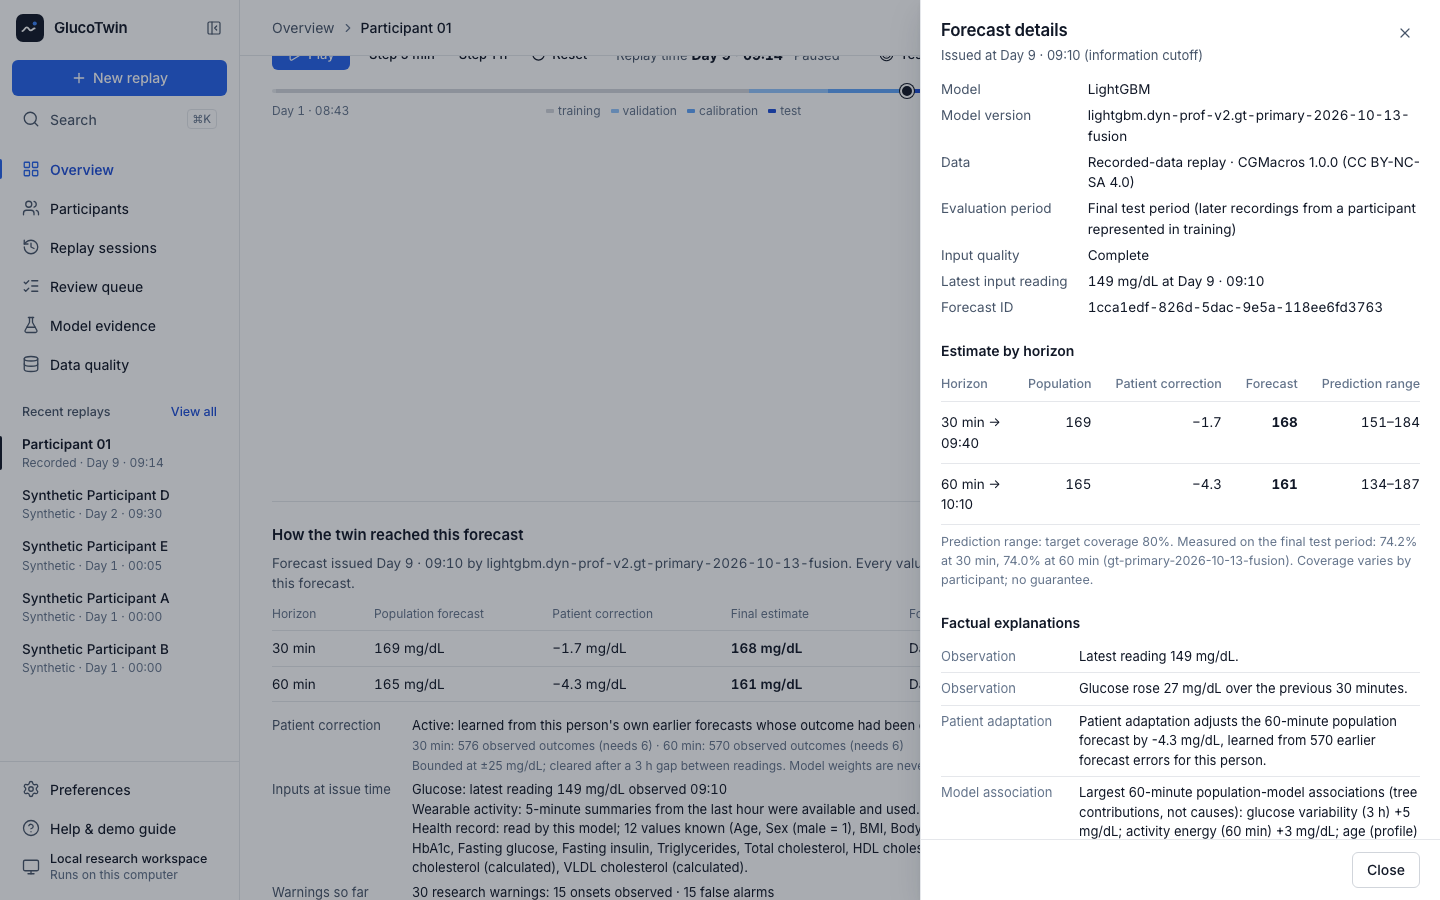
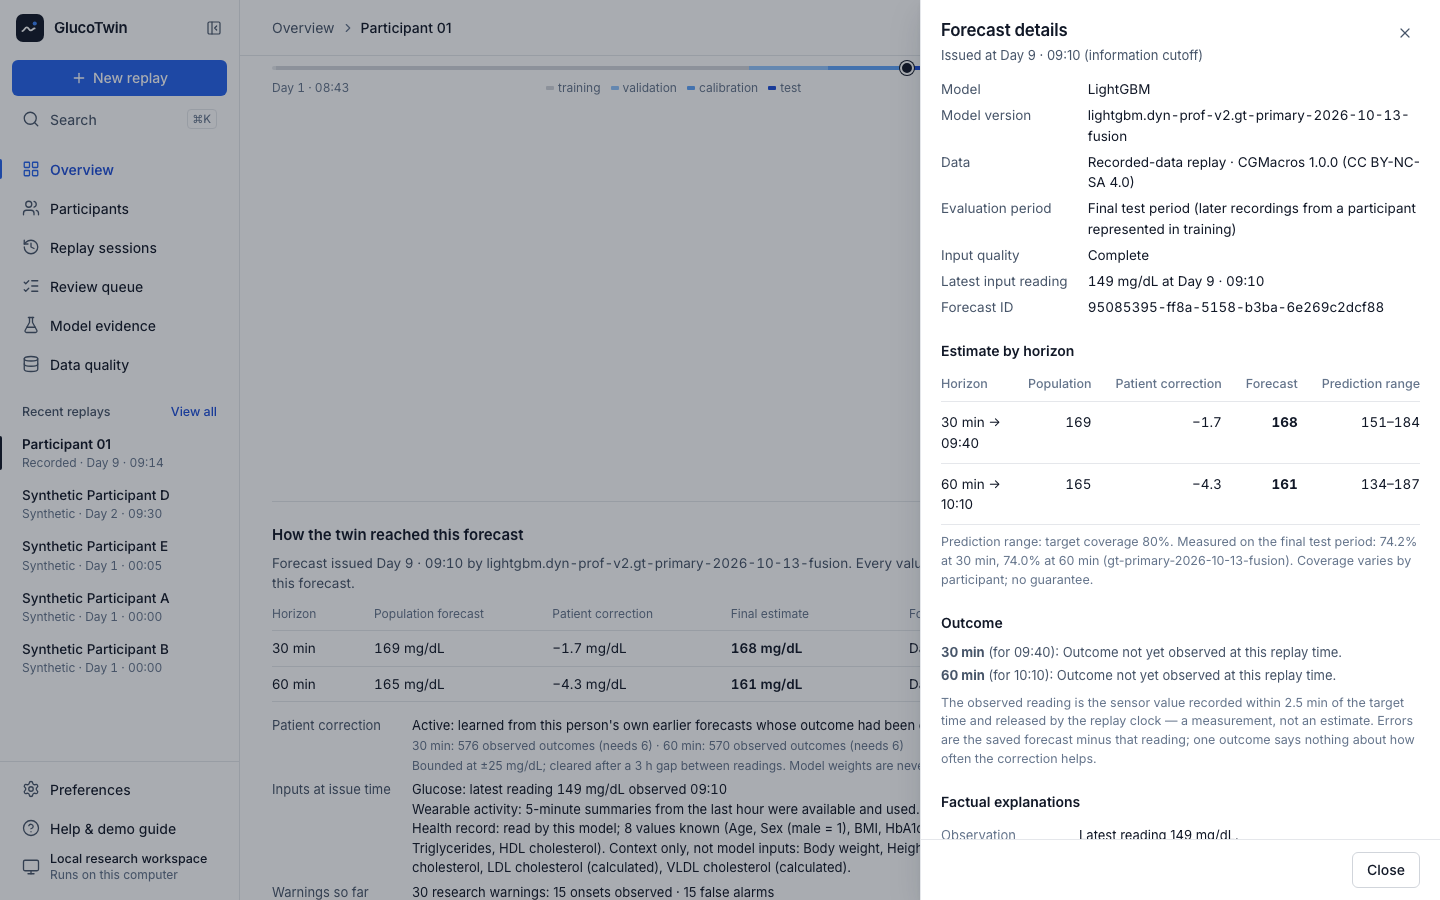
feat(workspace): forecast details show each horizon's outcome once the replay clock reaches it
The observed reading matched within 2.5 min of the target (released readings only), the saved final and population
forecasts' errors, and whether the patient correction moved this forecast closer or further. Pending before the
target, unknown across a gap, follows the clock after a rewind. Opening the latest forecast's details pins it so stepping
on reveals its outcome.

diff --git a/apps/web/src/components/twin/ForecastDetail.tsx b/apps/web/src/components/twin/ForecastDetail.tsx
@@ -1,6 +1,7 @@
-import type { EvaluationReport, Forecast, PatientSummary } from "@/api/types";
+import type { EvaluationReport, Forecast, ObservationEvent, PatientSummary } from "@/api/types";
 import { measuredCoverage } from "@/lib/forecast";
 import { fmtGlucose, fmtPct, modeLabel } from "@/lib/format";
+import { horizonOutcome, type HorizonOutcome } from "@/lib/outcome";
 import { replayTime } from "@/lib/time";
 import { Button, Dialog } from "../ui";
 
@@ -19,8 +20,10 @@ const KIND: Record<string, string> = {
 };
 
 /** Side drawer with the provenance of one forecast: identity, cutoff, components, range semantics, explanations. */
-export function ForecastDetail({ f, patient, report, open, onClose, publicDemo = false }: {
+export function ForecastDetail({ f, patient, report, open, onClose, publicDemo = false, events = [], clock }: {
   f: Forecast | null; patient?: PatientSummary; report?: EvaluationReport; open: boolean; onClose: () => void; publicDemo?: boolean;
+  /** released observations of the session and the replay clock, for the outcome of each horizon */
+  events?: ObservationEvent[]; clock?: number;
 }) {
   const cov = f ? measuredCoverage(report, f.model_version) : null;
   return (
@@ -73,6 +76,24 @@ export function ForecastDetail({ f, patient, report, open, onClose, publicDemo =
             </p>
           </section>
 
+          {clock != null && (
+            <section aria-labelledby="fd-outcome">
+              <h3 className="drawer-body__h" id="fd-outcome">Outcome</h3>
+              <ul className="facts">
+                {f.estimates.map((e) => (
+                  <li key={e.horizon_minutes}>
+                    <OutcomeLine horizon={e.horizon_minutes} target={e.target_at} o={horizonOutcome(e, events, clock)} />
+                  </li>
+                ))}
+              </ul>
+              <p className="drawer-body__note">
+                The observed reading is the sensor value recorded within 2.5 min of the target time and released by the replay
+                clock — a measurement, not an estimate. Errors are the saved forecast minus that reading; one outcome says
+                nothing about how often the correction helps.
+              </p>
+            </section>
+          )}
+
           <section aria-labelledby="fd-why">
             <h3 className="drawer-body__h" id="fd-why">Factual explanations</h3>
             <ul className="explain-list">
@@ -89,5 +110,26 @@ export function ForecastDetail({ f, patient, report, open, onClose, publicDemo =
         </div>
       )}
     </Dialog>
+  );
+}
+
+const signed = (v: number) => `${v >= 0 ? "+" : "−"}${Math.abs(v).toFixed(1)}`;
+
+function OutcomeLine({ horizon, target, o }: { horizon: number; target: string; o: HorizonOutcome }) {
+  const head = <><strong>{horizon} min</strong> (for {replayTime(target, { day: false })}): </>;
+  if (o.state === "pending") return <>{head}<span className="muted">Outcome not yet observed at this replay time.</span></>;
+  if (o.state === "unknown") return <>{head}<span className="muted">No reading near the target time — outcome unknown.</span></>;
+  return (
+    <>
+      {head}observed reading <strong className="num">{fmtGlucose(o.observed)} mg/dL</strong> at {replayTime(o.observedAt, { day: false })}.
+      {" "}Forecast error {o.finalError == null ? "—" : `${signed(o.finalError)} mg/dL`}
+      {o.populationError != null && <>; population forecast error {signed(o.populationError)} mg/dL</>}.
+      {o.correction && (
+        <span className="table__sub">
+          {o.correction.effect === "none" ? "The patient correction made no difference to this forecast's error (under 0.5 mg/dL)."
+            : `The patient correction moved this forecast ${o.correction.by.toFixed(1)} mg/dL ${o.correction.effect === "closer" ? "closer to" : "further from"} the observed value.`}
+        </span>
+      )}
+    </>
   );
 }

diff --git a/apps/web/src/lib/outcome.test.ts b/apps/web/src/lib/outcome.test.ts
@@ -1,0 +1,46 @@
+import { describe, expect, it } from "vitest";
+import type { HorizonEstimate } from "@/api/types";
+import { glucose } from "@/test/fixtures";
+import { horizonOutcome } from "./outcome";
+import { ms } from "./time";
+
+const est = (over: Partial<HorizonEstimate> = {}): HorizonEstimate => ({
+  horizon_minutes: 30, target_at: "2000-01-03T10:30:00Z", predicted_mg_dl: 170,
+  components: { population_mg_dl: 180, patient_correction_mg_dl: -10 }, ...over,
+}) as HorizonEstimate;
+const reading = glucose("g1", "2000-01-03T10:31:00Z", 168);
+
+describe("horizonOutcome", () => {
+  it("is pending before the target time, even when a later reading exists in the list", () => {
+    expect(horizonOutcome(est(), [reading], ms("2000-01-03T10:20:00Z"))).toEqual({ state: "pending" });
+  });
+
+  it("matches the observed reading within 2.5 minutes and reports both errors", () => {
+    const o = horizonOutcome(est(), [reading], ms("2000-01-03T10:40:00Z"));
+    expect(o).toMatchObject({ state: "observed", observed: 168, observedAt: "2000-01-03T10:31:00Z", finalError: 2, populationError: 12 });
+  });
+
+  it("says the correction moved the forecast closer, further or made no difference", () => {
+    const at = ms("2000-01-03T10:40:00Z");
+    expect(horizonOutcome(est(), [reading], at)).toMatchObject({ correction: { effect: "closer", by: 10 } });
+    const hurt = est({ predicted_mg_dl: 150, components: { population_mg_dl: 165, patient_correction_mg_dl: -15 } });
+    expect(horizonOutcome(hurt, [reading], at)).toMatchObject({ correction: { effect: "further", by: 15 } });
+    const same = est({ predicted_mg_dl: 168.2, components: { population_mg_dl: 167.9, patient_correction_mg_dl: 0.3 } });
+    expect(horizonOutcome(same, [reading], at)).toMatchObject({ correction: { effect: "none" } });
+    const noCorr = est({ components: { population_mg_dl: 170, patient_correction_mg_dl: null } as HorizonEstimate["components"] });
+    expect(horizonOutcome(noCorr, [reading], at)).toMatchObject({ correction: null });
+  });
+
+  it("is unknown when no reading lies near the target (a gap), but pending while one could still arrive", () => {
+    const far = glucose("g2", "2000-01-03T10:45:00Z", 150);
+    expect(horizonOutcome(est(), [far], ms("2000-01-03T10:31:00Z"))).toEqual({ state: "pending" });
+    expect(horizonOutcome(est(), [far], ms("2000-01-03T11:00:00Z"))).toEqual({ state: "unknown" });
+  });
+
+  it("follows the replay clock after a rewind: a reading not yet released is not used", () => {
+    const late = glucose("g3", "2000-01-03T10:31:00Z", 168, "2000-01-03T10:50:00Z"); // available 19 min later
+    expect(horizonOutcome(est(), [late], ms("2000-01-03T10:40:00Z"))).toEqual({ state: "unknown" });
+    expect(horizonOutcome(est(), [late], ms("2000-01-03T10:55:00Z"))).toMatchObject({ state: "observed" });
+    expect(horizonOutcome(est(), [late], ms("2000-01-03T10:25:00Z"))).toEqual({ state: "pending" });
+  });
+});

diff --git a/apps/web/e2e/journey.spec.ts b/apps/web/e2e/journey.spec.ts
@@ -343,6 +343,38 @@ test.describe("recording resolution (1920×1080) — demo sequence on recorded d
     await expect(page.getByText("No onset (false alarm)").first()).toBeVisible();
   });
 
+  test("Participant 01: a forecast's outcome appears only when the replay clock reaches its target time", async ({ page }) => {
+    const p = await byAlias(page, "Participant 01");
+    test.skip(!p, "CGMacros not imported on this machine");
+    await page.goto("/app");
+    const sid = await startReplay(page, "dataset_replay", p.patient_id, true);
+    await seek(page, sid, "2000-01-11T20:35:00Z");
+    await page.getByRole("button", { name: "View forecast details" }).click();
+    const drawer = page.getByRole("dialog", { name: "Forecast details" });
+    await expect(drawer).toContainText("Issued at Day 9 · 20:35");
+    const outcome = drawer.getByRole("region", { name: "Outcome" });
+    await expect(outcome).toContainText("Outcome not yet observed at this replay time.");
+    await expect(outcome).not.toContainText(/observed reading \d/);
+    await page.keyboard.press("Escape");
+    // step past the 30-minute target (21:05); the opened forecast stays pinned
+    for (let i = 0; i < 7; i++) await page.getByRole("button", { name: "Step 5 min forward" }).click();
+    await expect(page.getByText("Day 9 · 21:10").first()).toBeVisible();
+    await page.getByRole("button", { name: "View forecast details" }).click();
+    await expect(drawer).toContainText("Issued at Day 9 · 20:35");
+    await expect(outcome).toContainText(/30 min \(for 21:05\): observed reading \d+ mg\/dL at 21:0\d/);
+    await expect(outcome).toContainText(/60 min \(for 21:35\): Outcome not yet observed at this replay time\./);
+    await page.keyboard.press("Escape");
+    await page.getByRole("button", { name: "Step 1 h forward" }).click();
+    await expect(page.getByText("Day 9 · 22:10").first()).toBeVisible();
+    await page.getByRole("button", { name: "View forecast details" }).click();
+    await expect(outcome).toContainText(/60 min \(for 21:35\): observed reading \d+ mg\/dL/);
+    await expect(outcome).toContainText(/The patient correction (moved this forecast [\d.]+ mg\/dL (closer to|further from)|made no difference)/);
+    await outcome.scrollIntoViewIfNeeded();
+    await drawer.screenshot({ path: `${SHOTS}/25-forecast-outcome.png` });
+    console.log("OUTCOME_TEXT::" + (await outcome.innerText()).replace(/\n/g, " | "));
+    await page.keyboard.press("Escape");
+  });
+
   test("Participant 12: a real sensor gap makes the forecast stale, then the twin abstains", async ({ page }) => {
     const p = await byAlias(page, "Participant 12");
     test.skip(!p, "CGMacros not imported on this machine");

diff --git a/apps/web/src/lib/outcome.ts b/apps/web/src/lib/outcome.ts
@@ -1,0 +1,49 @@
+/**
+ * What happened after a saved forecast, judged at the replay clock: the observed reading matched to each horizon's target
+ * time and how far the saved final and population forecasts were from it. Only saved forecast fields and readings the
+ * clock has released are used; the forecast is never recomputed, and nothing is said about why the error arose.
+ */
+import type { HorizonEstimate, ObservationEvent } from "@/api/types";
+import { outcomeFor } from "./chart";
+import { ms } from "./time";
+
+/** Matching window around t + h, in minutes: `match_tolerance_minutes` of configs/experiment.yaml (5-minute data). */
+export const OUTCOME_TOLERANCE_MIN = 2.5;
+/** Below this difference in absolute error the patient correction is said to have made no difference. */
+export const NO_DIFFERENCE_MG_DL = 0.5;
+
+export type HorizonOutcome =
+  | { state: "pending" }
+  | { state: "unknown" }
+  | {
+    state: "observed";
+    observed: number;
+    observedAt: string;
+    /** saved final forecast minus the observed reading */
+    finalError: number | null;
+    /** saved population forecast minus the observed reading */
+    populationError: number | null;
+    /** how the saved patient correction changed the absolute error; null without a correction or population value */
+    correction: { effect: "closer" | "further" | "none"; by: number } | null;
+  };
+
+export function horizonOutcome(e: HorizonEstimate, events: ObservationEvent[], clock: number): HorizonOutcome {
+  const target = ms(e.target_at);
+  if (target > clock) return { state: "pending" };
+  const hit = outcomeFor(events, target, clock, OUTCOME_TOLERANCE_MIN);
+  if (!hit) {
+    // a matching reading may still be released within the tolerance window after the target time
+    return clock < target + OUTCOME_TOLERANCE_MIN * 60_000 ? { state: "pending" } : { state: "unknown" };
+  }
+  const observed = hit.values.value as number;
+  const finalError = e.predicted_mg_dl == null ? null : e.predicted_mg_dl - observed;
+  const pop = e.components?.population_mg_dl;
+  const populationError = pop == null ? null : pop - observed;
+  let correction: { effect: "closer" | "further" | "none"; by: number } | null = null;
+  if (finalError != null && populationError != null && e.components?.patient_correction_mg_dl != null) {
+    const d = Math.abs(populationError) - Math.abs(finalError);
+    correction = Math.abs(d) < NO_DIFFERENCE_MG_DL ? { effect: "none", by: Math.abs(d) }
+      : { effect: d > 0 ? "closer" : "further", by: Math.abs(d) };
+  }
+  return { state: "observed", observed, observedAt: hit.observed_at, finalError, populationError, correction };
+}

diff --git a/apps/web/src/pages/ReplayPage.tsx b/apps/web/src/pages/ReplayPage.tsx
@@ -172,7 +172,11 @@ export function ReplayPage({ sid }: { sid: string }) {
             segments={patient.data?.evaluation_segments}
             more={<Link className="text-link guards__more" to={paths.evidence("safety-guardrails")}>All safety guardrails<ArrowRight size={14} aria-hidden /></Link>} />
           {(selected ?? latestF) && (
-            <button type="button" className="text-btn inspector__link" onClick={() => setDetailOpen(true)}>
+            <button type="button" className="text-btn inspector__link" onClick={() => {
+              // opening the latest forecast pins it, so stepping on keeps this forecast and reveals its outcome
+              if (!selected && latestF) setSelectedId(latestF.forecast_id);
+              setDetailOpen(true);
+            }}>
               View forecast details<ArrowRight size={14} aria-hidden />
             </button>
           )}
@@ -191,7 +195,7 @@ export function ReplayPage({ sid }: { sid: string }) {
       </div>
 
       <ForecastDetail f={selected ?? latestF} patient={patient.data} report={evaluation.data} open={detailOpen} onClose={() => setDetailOpen(false)}
-        publicDemo={publicDemo} />
+        publicDemo={publicDemo} events={events} clock={clock} />
       <div className="visually-hidden" aria-live="polite">{announce}</div>
     </>
   );
